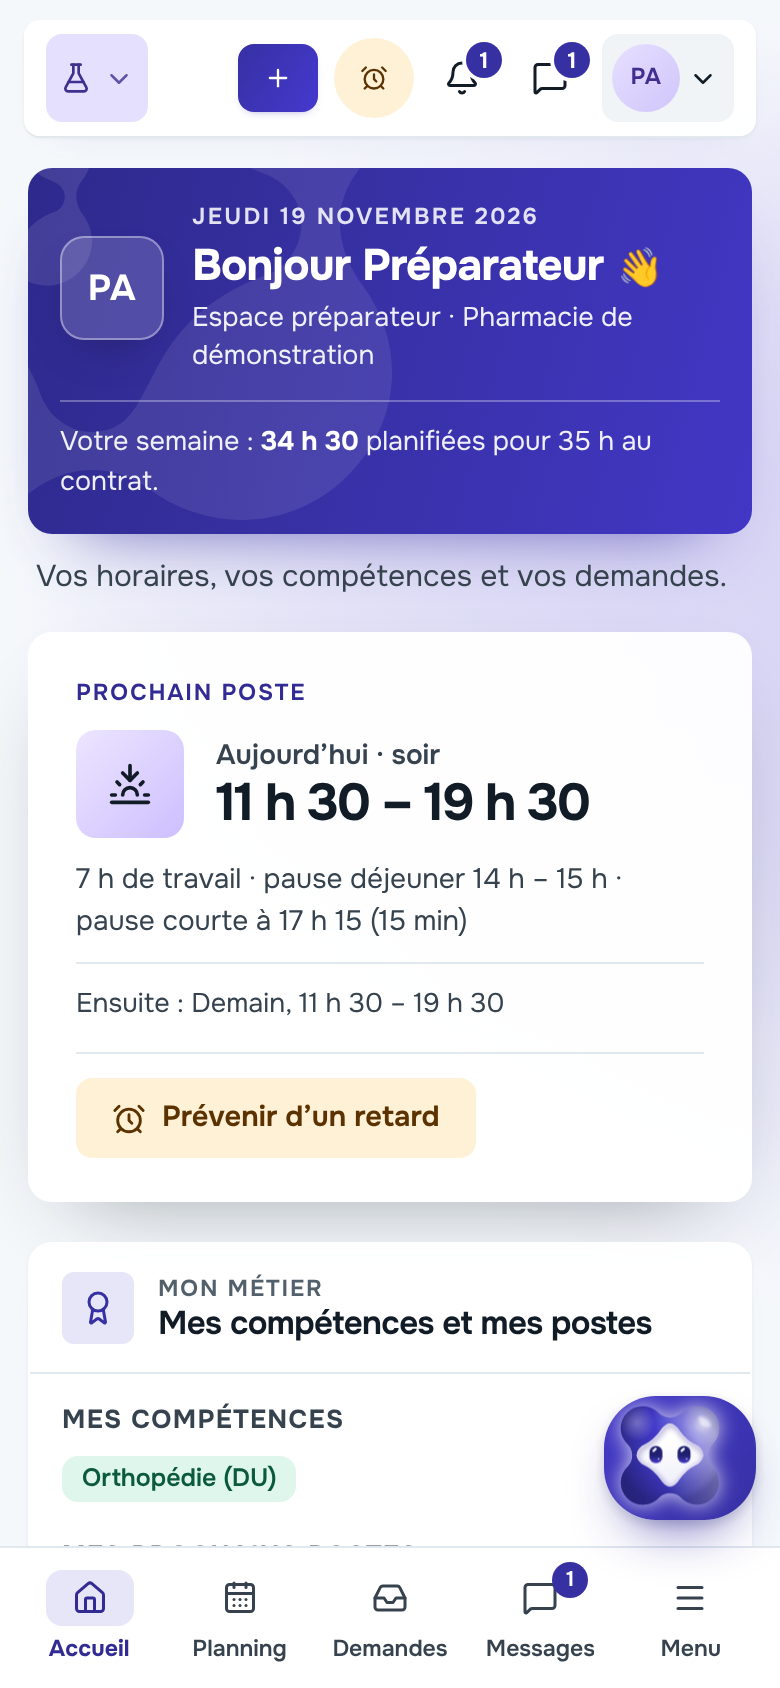
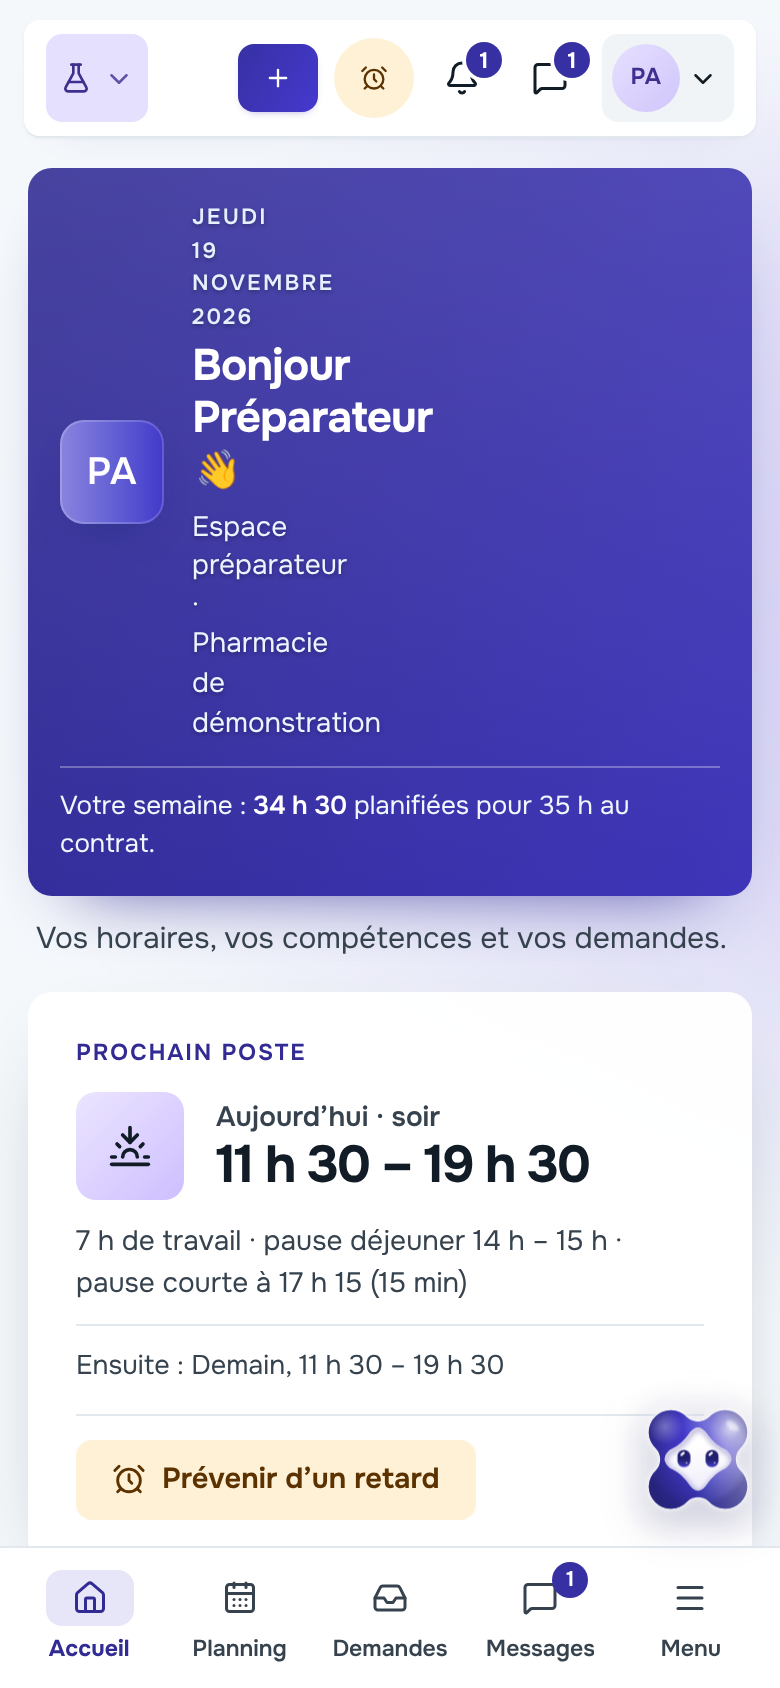
README : planche des sept bannières, captures à jour
Les captures du README reprennent la version finale (bannière illustrée,
trois apparences) et une planche montre la bannière de chaque profil.
Données anonymes.

Claude-Session: https://claude.ai/code/session_01Ae1XBMTibvgnheUBdFCd56

diff --git a/README.md b/README.md
@@ -92,6 +92,10 @@ trouve. Chacun choisit son apparence, claire, mixte ou sombre ; seul le titulair
 | Apprenti, étudiant | Vert, ambre | Alternance, études et horaires |
 
 <div align="center">
+<img src="docs/images/bannieres.webp" alt="Les sept bannières d'accueil : une illustration et une couleur par profil" width="760">
+</div>
+
+<div align="center">
 <img src="docs/images/themes.png" alt="Le même tableau de bord dans les trois apparences : claire, mixte et sombre" width="880">
 </div>
 
